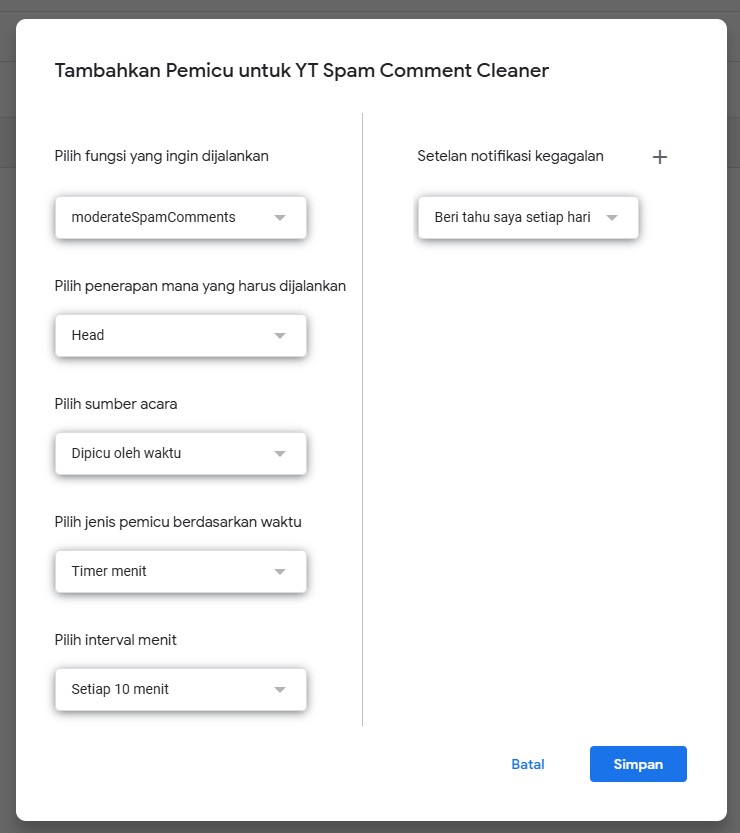
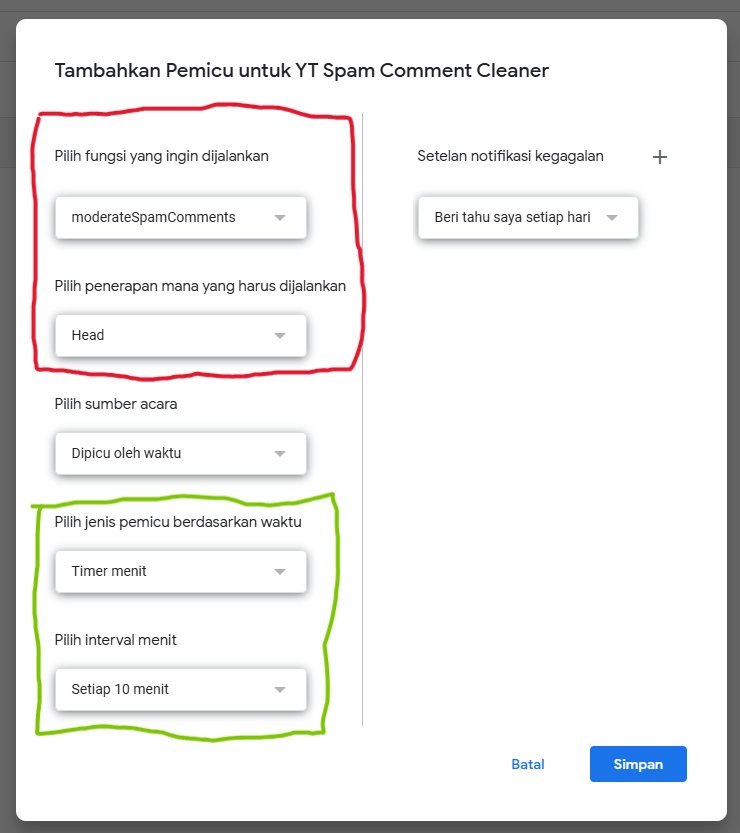
add image docs

diff --git a/readme.md b/readme.md
@@ -1,4 +1,4 @@
-# 🚮 Pembasmi Judol Ampuh - YouTube Spam Comment Cleaner
+# 🚮 Pembasmi Spam Judol - YouTube Spam Comment Cleaner
 
 Solusi otomatis untuk membasmi komentar spam judi di video YouTube dengan deteksi pola cerdas!
 
@@ -163,6 +163,24 @@ Mencari frasa kunci yang sering muncul di spam judi online. Anda dapat menambahk
      }
    }
    ```
+
+## Dokumentasi
+Video [Youtubbe](https://youtu.be/KLcj1cluhP8) uji coba script. Silahkan keluarkan komen judol mu [disini](https://youtu.be/KLcj1cluhP8?si=_fGXwLX9UOGaaR_E) (kalau bisa:v)
+
+1. Tampilan editor Google Apps Script
+![Google Apps Script Editor Preview](img/gs-editor.png)
+
+2. Tampilan log program `DRY_RUN = true` ketika mendeteksi komentar yang mengandung judol
+![debug-log](img/debug-log.png)
+
+3. Tampilan log program `DRY_RUN = false` ketika komentar judol berhasil dihapus
+![Success Delete Comment](img/comment_delete_succesfull.png)
+
+4. Tampilan settingan pemicu yang saya gunakan. Kotak merah beraarti jangan diubah, kotak hijau berarti boleh diubah sesuai keinginan anda
+![Settingan Pemicu](img/trigger-settings.png)
+
+5. Tampilan log eksekusi otomatis dengan pemicu waktu
+![Auto Execute Successfull](img/auto-execute.png)
 
 ## 📜 Lisensi
 [MIT License](LICENSE) - Bebas modifikasi dan distribusi
